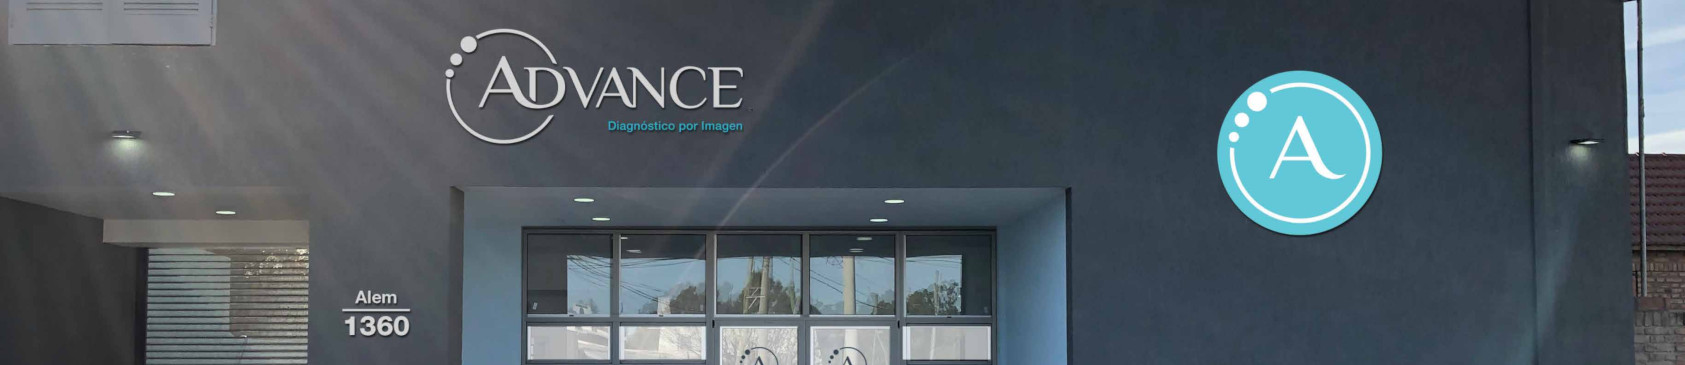
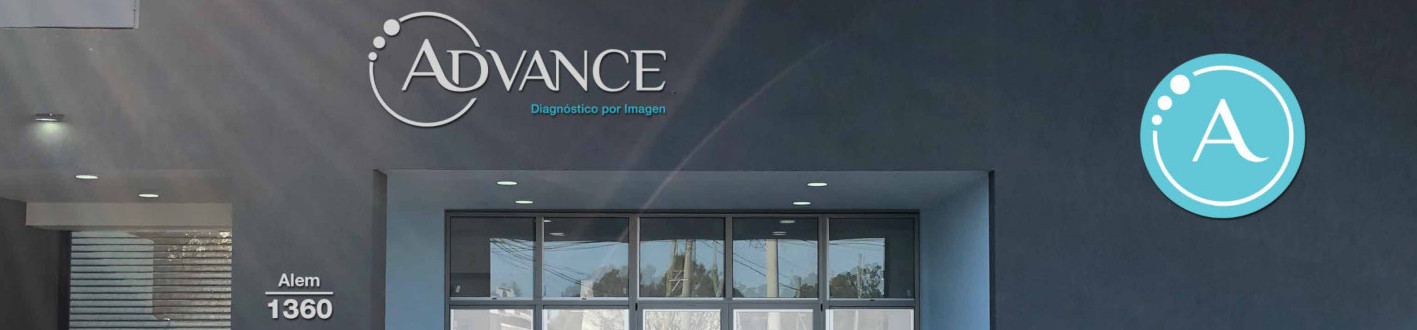
estilos institucional

diff --git a/src/views/institucional/styles.scss b/src/views/institucional/styles.scss
@@ -1,8 +1,5 @@
 @import 'styles/variables/mqueries.scss';
 
-section#institucional {
-}
-
 section#institucional h1 {
     background-color: #62c9d8;
     color: #fff;
@@ -24,6 +21,11 @@ section#institucional .wrapper-central .imagen {
 
 section#institucional .wrapper-central .imagen img {
     width: 100%;    
+    @media #{$all-narrow}  {
+        height: 250px;
+        object-fit: cover;
+        object-position: 38%;
+    }
 }
 
 section#institucional .wrapper-central .cajas {
@@ -107,7 +109,7 @@ section#institucional .wrapper-central .directora a {
 
 section#institucional .wrapper-central .directora img {
     width: 100%;
-    max-width: 450px;
+    max-width: 400px;
 }
 
 section#institucional .wrapper-central .directora h3 {
